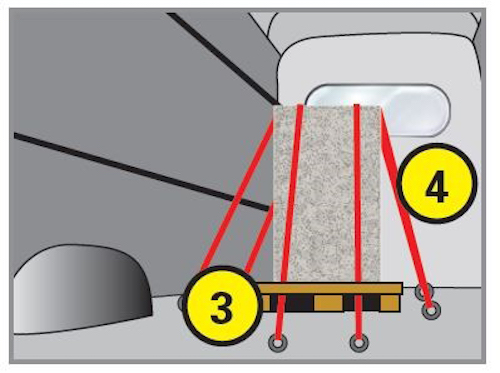
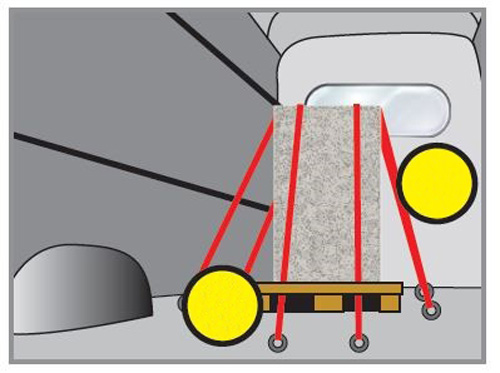
[fix:jeu12] Delete responses in images and hide overlap shapes

diff --git a/src/games/12/components/game/objects/Image/Image.js b/src/games/12/components/game/objects/Image/Image.js
@@ -34,7 +34,7 @@ export default class Image extends BasicGameObject {
 	        	this.shapes[data.shapes[shape].correctAnswer] = this.game.add.graphics(x + data.shapes[shape].x * game.SCALE, y + data.shapes[shape].y * game.SCALE);
 	        	this.game.layer.zDepth1.addChild(this.shapes[data.shapes[shape].correctAnswer]);
 	        	if (fill) {
-		            this.shapes[data.shapes[shape].correctAnswer].beginFill(0xFF0000, .5);
+		            this.shapes[data.shapes[shape].correctAnswer].beginFill(0xFF0000, 0);
 		        }
 		        this.shapes[data.shapes[shape].correctAnswer].drawCircle(0, 0, radius);
 		        shapesCount++;
